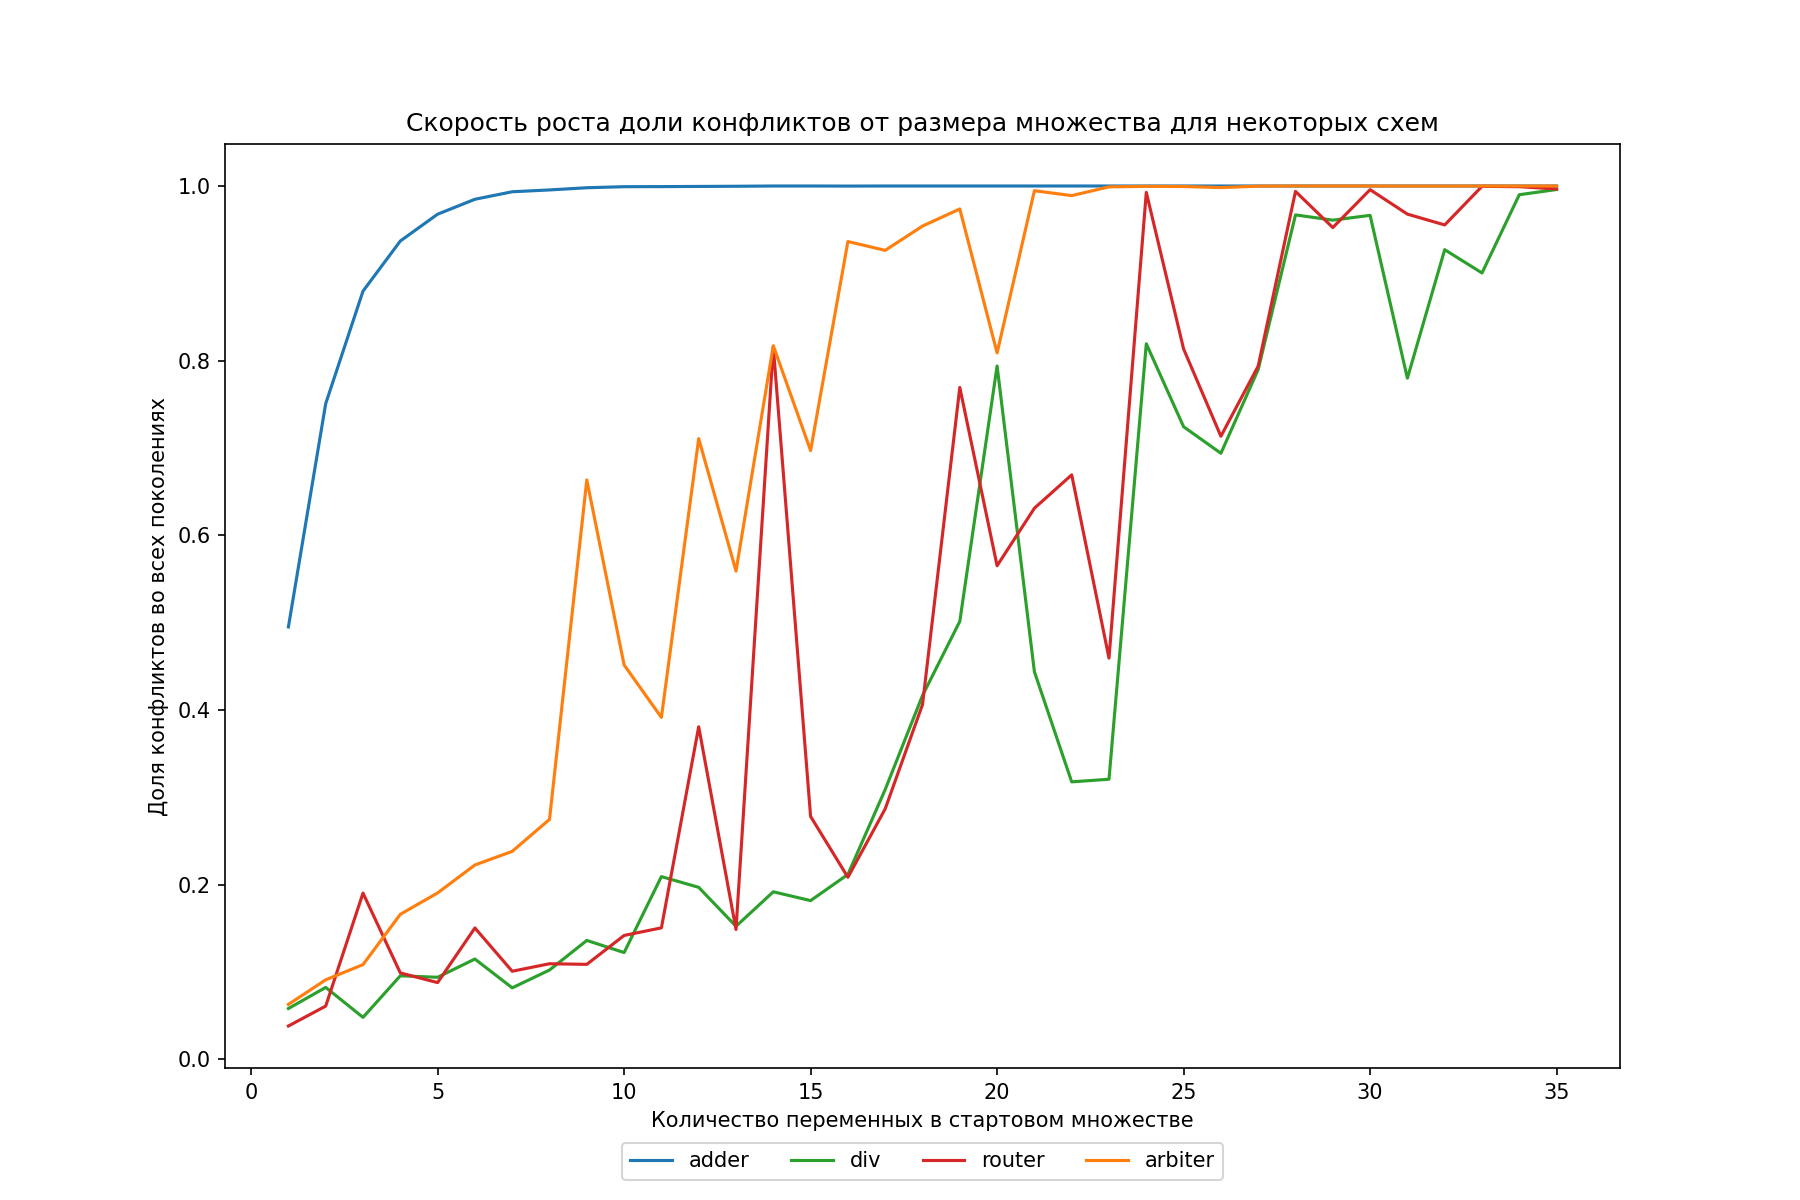
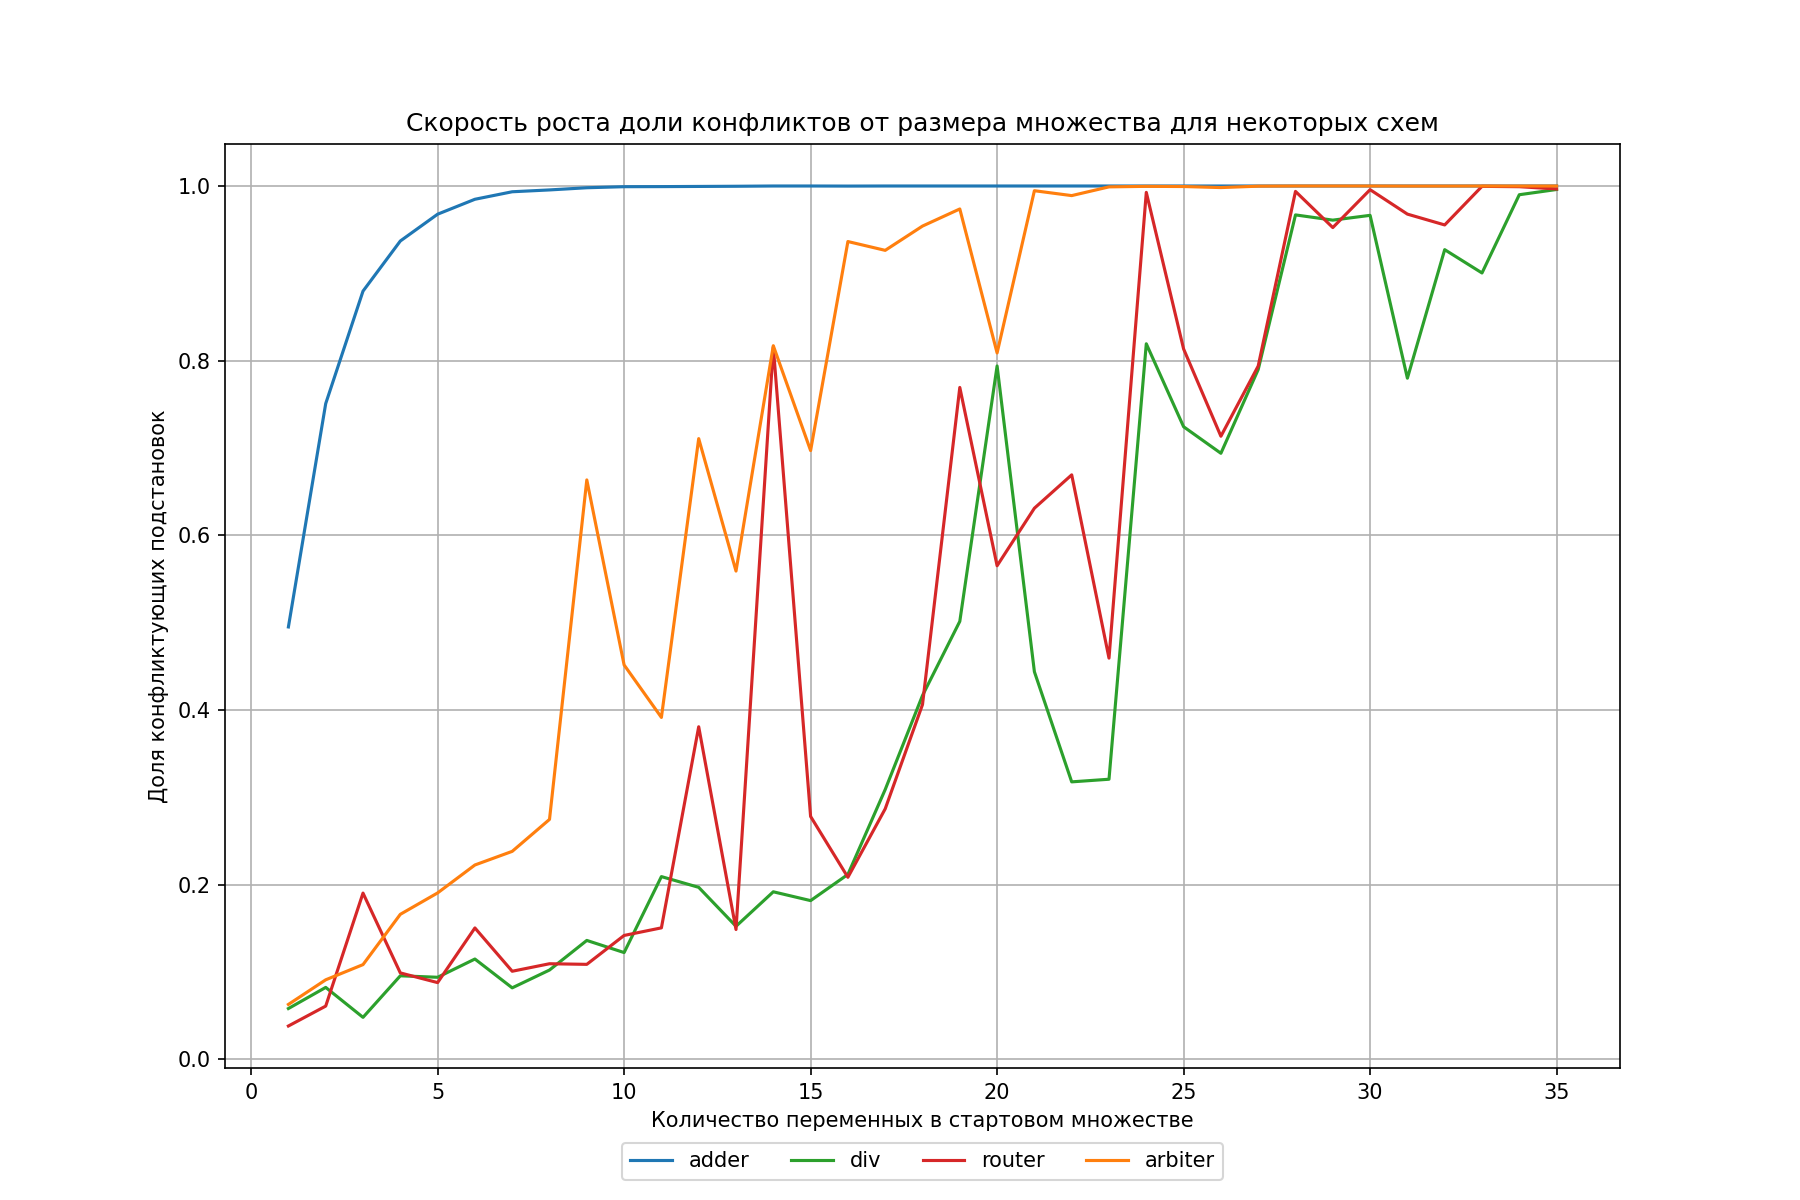
Improve graphics – change label and add grid

Changed region(s): [[0.0622, 0.3392, 0.0933, 0.6783]]

diff --git a/graphics.py b/graphics.py
@@ -20,7 +20,7 @@ colors = {
 
 plt.figure(figsize=(12, 8), dpi=150)
 plt.xlabel('Количество переменных в стартовом множестве')
-plt.ylabel('Доля конфликтов во всех поколениях')
+plt.ylabel('Доля конфликтующих подстановок')
 plt.title('Скорость роста доли конфликтов от размера множества для некоторых схем')
 
 for file in os.listdir('stats/evolution'):
@@ -31,5 +31,6 @@ for file in os.listdir('stats/evolution'):
             xs = list(range(1, len(ratios) + 1))
             plt.plot(xs, ratios, color=colors[schema_name], label=schema_name)
 
+plt.grid(True)
 plt.legend(loc='upper center', bbox_to_anchor=(0.5, -0.07), ncol=len(wanted_schemas))
 plt.savefig(f'stats/evolution/{"_".join(wanted_schemas)}.png')
